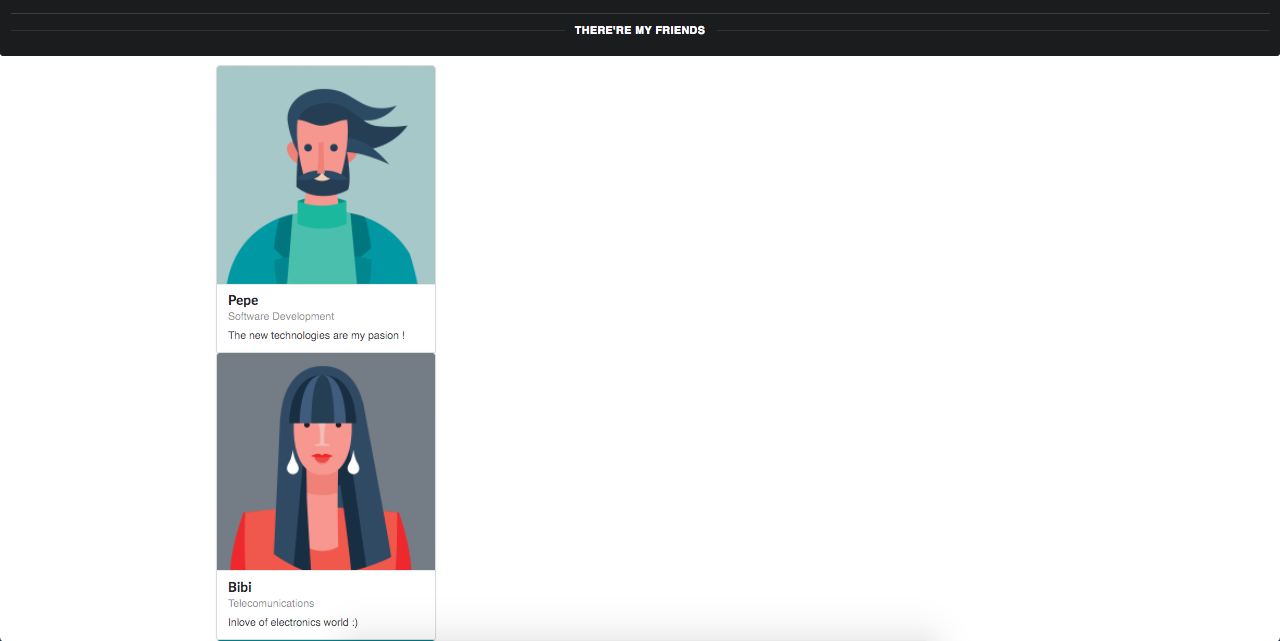
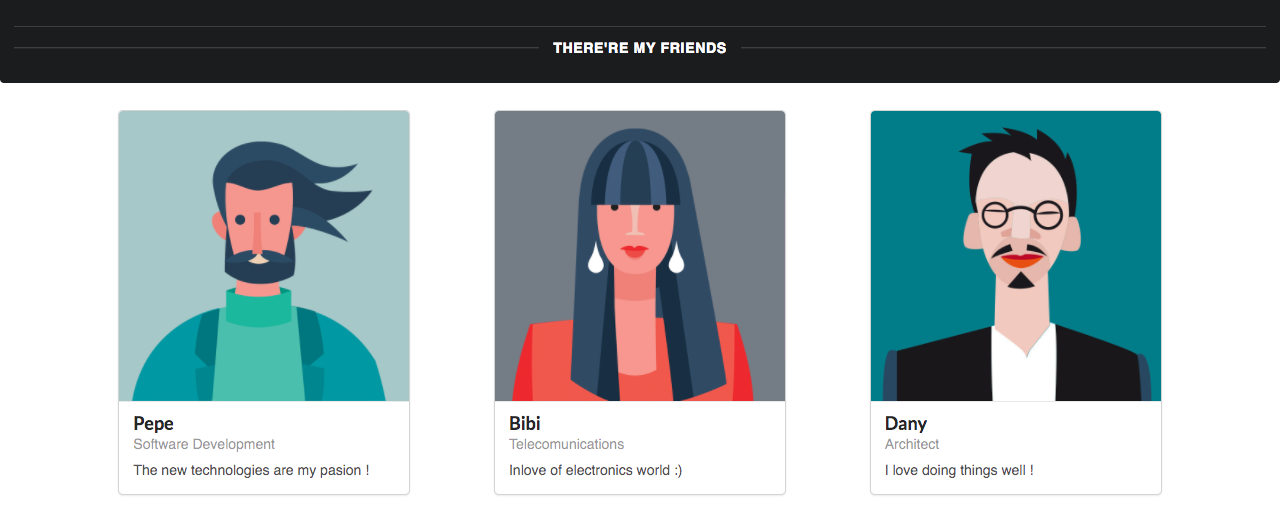
modificated container

diff --git a/src/js/Contacts.js b/src/js/Contacts.js
@@ -8,25 +8,23 @@ class Contacts extends Component{
         const {image, name, speciality, description} = this.props;
 
         return(
-            <Container ContainerStyle>
-                <Card>
-                    <Image src = {image} />
+            <Card>
+                <Image src = {image} />
 
-                    <Card.Content>
-                        <Card.Header>
-                            {name}
-                        </Card.Header>
-                        <Card.Meta>
-                            <span className='date'>
-                                {speciality}
-                            </span>
-                        </Card.Meta>
-                        <Card.Description>
-                            {description}
-                        </Card.Description>
-                    </Card.Content>
-                </Card>
-            </Container>
+                <Card.Content>
+                    <Card.Header>
+                        {name}
+                    </Card.Header>
+                    <Card.Meta>
+                        <span className='date'>
+                            {speciality}
+                        </span>
+                    </Card.Meta>
+                    <Card.Description>
+                        {description}
+                    </Card.Description>
+                </Card.Content>
+            </Card>
         );
     }
 }

diff --git a/src/js/App.js b/src/js/App.js
@@ -1,7 +1,13 @@
 import React, { Component } from "react";
-import { Segment, Divider  } from "semantic-ui-react";
+import { Segment, Divider, Container  } from "semantic-ui-react";
 import Contacts from "./Contacts.js";
 import "../css/App.css";
+ 
+const containerStyles = {
+    display: 'flex', 
+    flexWrap: 'wrap',
+    justifyContent: "space-around",
+}
 
 class App extends Component{
 
@@ -37,6 +43,8 @@ class App extends Component{
                 <Divider horizontal inverted>There're my Friends</Divider>
             </Segment>
 
+            <Container style = { containerStyles } >
+            
             {
                 list.map( item => (
                     <Contacts 
@@ -47,6 +55,7 @@ class App extends Component{
                     />
                 ))
             }
+            </Container>
 
             </div>
         );

diff --git a/src/css/App.css b/src/css/App.css
@@ -23,8 +23,3 @@
   to { transform: rotate(360deg); }
 }
 
-.ContainerStyle{
-  display: flex;
-  flex-wrap: wrap;
-  margin-top: 20px;
-}
